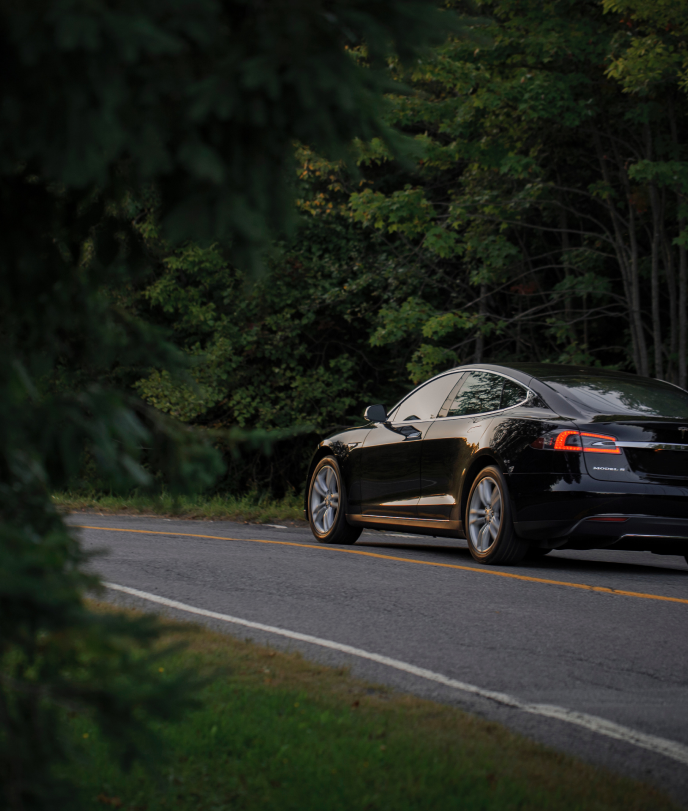
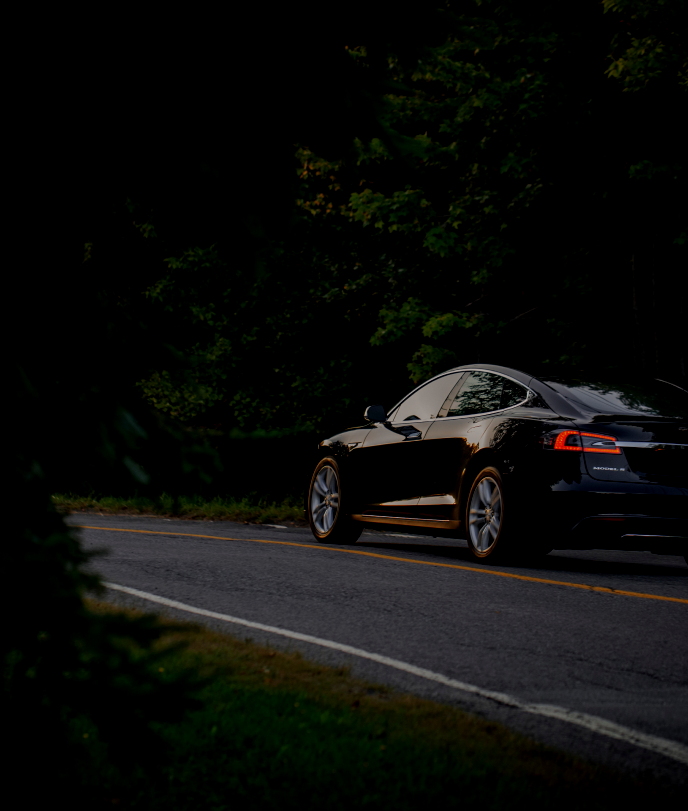
comments removed V/F-01

diff --git a/src/components/Slider/Carousel/Carousel.js b/src/components/Slider/Carousel/Carousel.js
@@ -5,6 +5,8 @@ import "swiper/components/navigation/navigation.min.css";
 import "swiper/components/pagination/pagination.min.css";
 import "./carousel.scss";
 
+import slides from "./const";
+
 //Импорт стандартных компонентов из подключенной библиотеки swiper
 import SwiperCore, {
     Navigation,
@@ -13,44 +15,8 @@ import SwiperCore, {
     Keyboard
 } from 'swiper';
 
-//Картинки к слайдеру
-import free_parking from "../../../assets/imeges/free-parking.png";
-import insurance from "../../../assets/imeges/insurance.png";
-import gasoline from "../../../assets/imeges/gasoline.png";
-import service from "../../../assets/imeges/service.png";
-
 SwiperCore.use([Navigation, Pagination, Mousewheel, Keyboard]);
 
-const slides = [
-    {
-        id: 1,
-        img: free_parking,
-        title: 'Бесплатная парковка',
-        text: 'Оставляйте машину на платных городских парковках и разрешенных местах, не нарушая ПДД, а также в аэропортах.',
-        classNameButton: 'slider-btn-1'
-    },
-    {
-        id: 2,
-        img: insurance,
-        title: 'Страховка',
-        text: 'Полная страховка страховка автомобиля',
-        classNameButton: 'slider-btn-2'
-    },
-    {
-        id: 3,
-        img: gasoline,
-        title: 'Бензин',
-        text: 'Полный бак на любой заправке города за наш счёт.',
-        classNameButton: 'slider-btn-3'
-    },
-    {
-        id: 4,
-        img: service,
-        title: 'Обслуживание',
-        text: 'Автомобиль проходит еженедельное ТО',
-        classNameButton: 'slider-btn-4'
-    }
-]
 
 export const Carousel = () => {
     const elementSlide = slides.map((slide, id) => {
@@ -70,6 +36,7 @@ export const Carousel = () => {
                         </div>
                     </div>
                 </div>
+
             </SwiperSlide>
         )
     })

diff --git a/src/components/Slider/Carousel/const.js b/src/components/Slider/Carousel/const.js
@@ -1,0 +1,37 @@
+import free_parking from "../../../assets/imeges/free-parking.png";
+import insurance from "../../../assets/imeges/insurance.png";
+import gasoline from "../../../assets/imeges/gasoline.png";
+import service from "../../../assets/imeges/service.png";
+
+const slides = [
+    {
+        id: 1,
+        img: free_parking,
+        title: 'Бесплатная парковка',
+        text: 'Оставляйте машину на платных городских парковках и разрешенных местах, не нарушая ПДД, а также в аэропортах.',
+        classNameButton: 'slider-btn-1'
+    },
+    {
+        id: 2,
+        img: insurance,
+        title: 'Страховка',
+        text: 'Полная страховка страховка автомобиля',
+        classNameButton: 'slider-btn-2'
+    },
+    {
+        id: 3,
+        img: gasoline,
+        title: 'Бензин',
+        text: 'Полный бак на любой заправке города за наш счёт.',
+        classNameButton: 'slider-btn-3'
+    },
+    {
+        id: 4,
+        img: service,
+        title: 'Обслуживание',
+        text: 'Автомобиль проходит еженедельное ТО',
+        classNameButton: 'slider-btn-4'
+    }
+]
+
+export default slides;

diff --git a/src/components/Main/Header/header.scss b/src/components/Main/Header/header.scss
@@ -1,42 +1,42 @@
 .main-header {
-    width: 100%;
-    display: flex;
-    justify-content: space-between;
-    align-items: center;
+  width: 100%;
+  display: flex;
+  justify-content: space-between;
+  align-items: center;
 }
 
 .main-header h2 {
-    font-size: 30px;
-    line-height: 35px;
-    font-style: normal;
-    font-weight: bold;
-    color: #0ec261;
+  font-size: 30px;
+  line-height: 35px;
+  font-style: normal;
+  font-weight: bold;
+  color: #0ec261;
 }
 
 .location {
-    display: flex;
-    align-items: center;
-    cursor: pointer;
+  display: flex;
+  align-items: center;
+  cursor: pointer;
 }
 
 .location-icon {
-    stroke: #999999;
+  stroke: #999999;
 }
 
 .location:hover a {
-    color: #0ec261;
+  color: #0ec261;
 }
 
 .location:hover .location-icon {
-    stroke: #0ec261;
+  stroke: #0ec261;
 }
 
 .location a {
-    margin-left: 7px;
-    font-size: 14px;
-    line-height: 16px;
-    text-decoration: none;
-    font-style: normal;
-    font-weight: normal;
-    color: #999999;
+  margin-left: 7px;
+  font-size: 14px;
+  line-height: 16px;
+  text-decoration: none;
+  font-style: normal;
+  font-weight: normal;
+  color: #999999;
 }

diff --git a/src/components/Main/Header/index.js b/src/components/Main/Header/index.js
@@ -1,11 +1,14 @@
 import React from 'react'
 import icons from '../../../assets/icons.svg';
 import './header.scss'
+import {NavLink} from "react-router-dom";
 
 export const Header = () => {
     return (
         <div className='main-header'>
-            <h2 className='without_class'>Need for drive</h2>
+            <NavLink to='/' style={{textDecoration: 'none'}}>
+                <h2 className='without_class'>Need for drive</h2>
+            </NavLink>
             <div className='location'>
                 <svg className='location-icon' width='18' height='20'>
                     <use xlinkHref={`${icons}#Location`}/>

diff --git a/src/components/Slider/Carousel/carousel.scss b/src/components/Slider/Carousel/carousel.scss
@@ -6,8 +6,11 @@
   justify-content: space-between;
   align-items: center;
   box-sizing: border-box;
-  background: gray;
   background-size: cover;
+}
+
+.slider:after {
+  background-color: rgba(0, 0, 0, 0.2)
 }
 
 .slider-content {
@@ -19,6 +22,7 @@
   align-items: flex-start;
   margin-left: 96px;
   margin-right: 96px;
+
 }
 
 .slider-content-item {
@@ -28,6 +32,7 @@
 
 .slider h2, h3 {
   margin: 0;
+
 }
 
 .slider-content-item h2 {
@@ -81,6 +86,7 @@
   transition: .3s opacity;
   transform: translate3d(0, 0, 0);
   z-index: 10;
+  margin-bottom: 20px;
 }
 
 .swiper-pagination-bullet span {

diff --git a/src/components/OrderMenu/index.js b/src/components/OrderMenu/index.js
@@ -24,7 +24,7 @@ const itemMenu = [
 ]
 
 export const OrderMenu = () => {
-    const stepMenu = itemMenu.map((item, id) => {
+    const stepsMenu = itemMenu.map((item, id) => {
         return (
             <>
                 <li key={id}>{item.text}</li>
@@ -40,7 +40,7 @@ export const OrderMenu = () => {
             <Header/>
             <div className='steps-menu'>
                 <ul>
-                    {stepMenu}
+                    {stepsMenu}
                 </ul>
             </div>
         </div>
